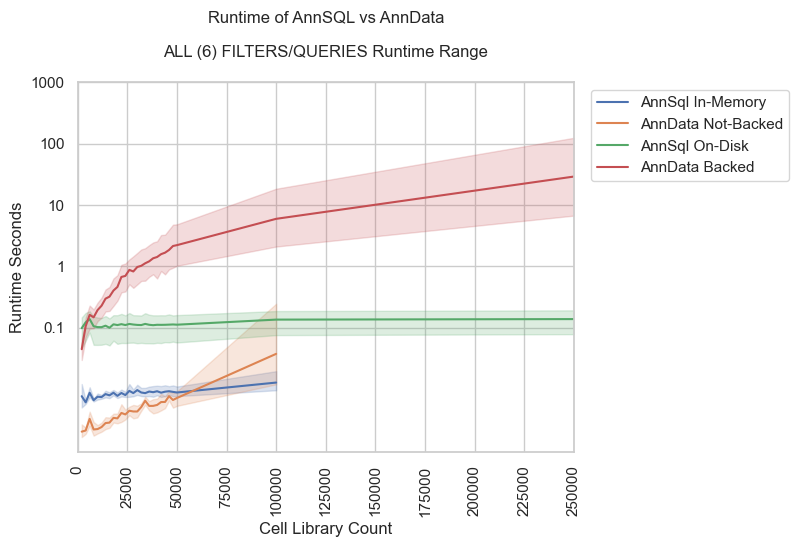
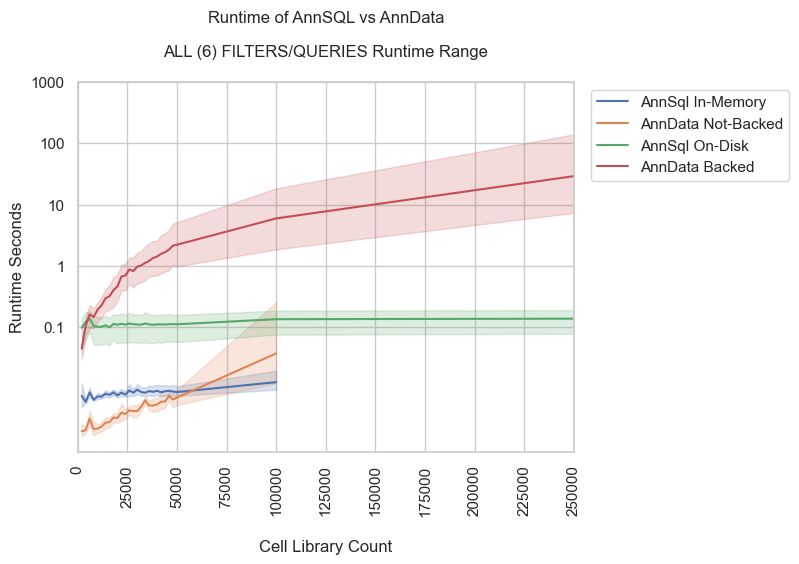
runtime image update

diff --git a/examples/analysis/runtime_analysis.py b/examples/analysis/runtime_analysis.py
@@ -351,7 +351,7 @@ comparisons = pd.read_csv("../results/comparisons.csv")
 sns.set(style="whitegrid")
 sns.lineplot(data=comparisons, x='size', y='runtime_log', hue='type')
 plt.ylabel("Runtime Seconds")
-plt.xlabel("Cell Library Count")
+plt.xlabel("\nCell Library Count")
 plt.xticks(rotation=90)
 plt.xticks(np.arange(0, 275000, 25000))
 plt.title("Runtime of AnnSQL vs AnnData\n\nALL (6) FILTERS/QUERIES Runtime Range\n")
